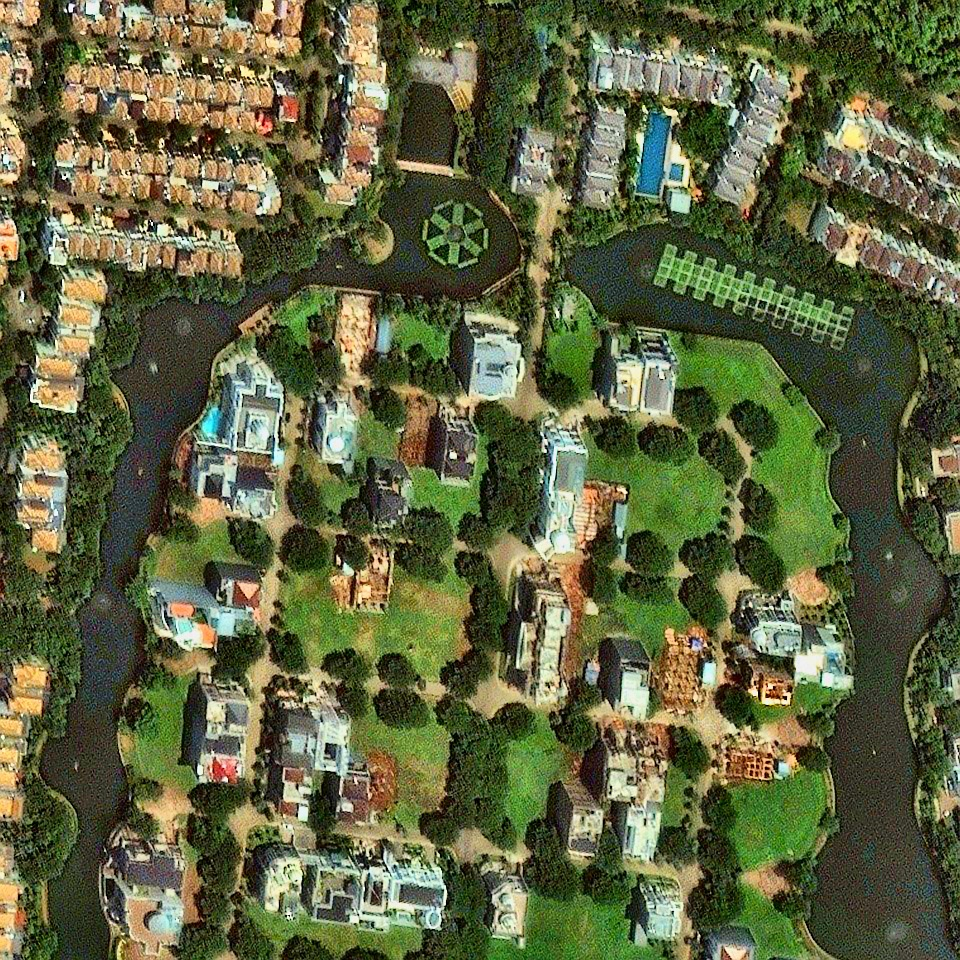
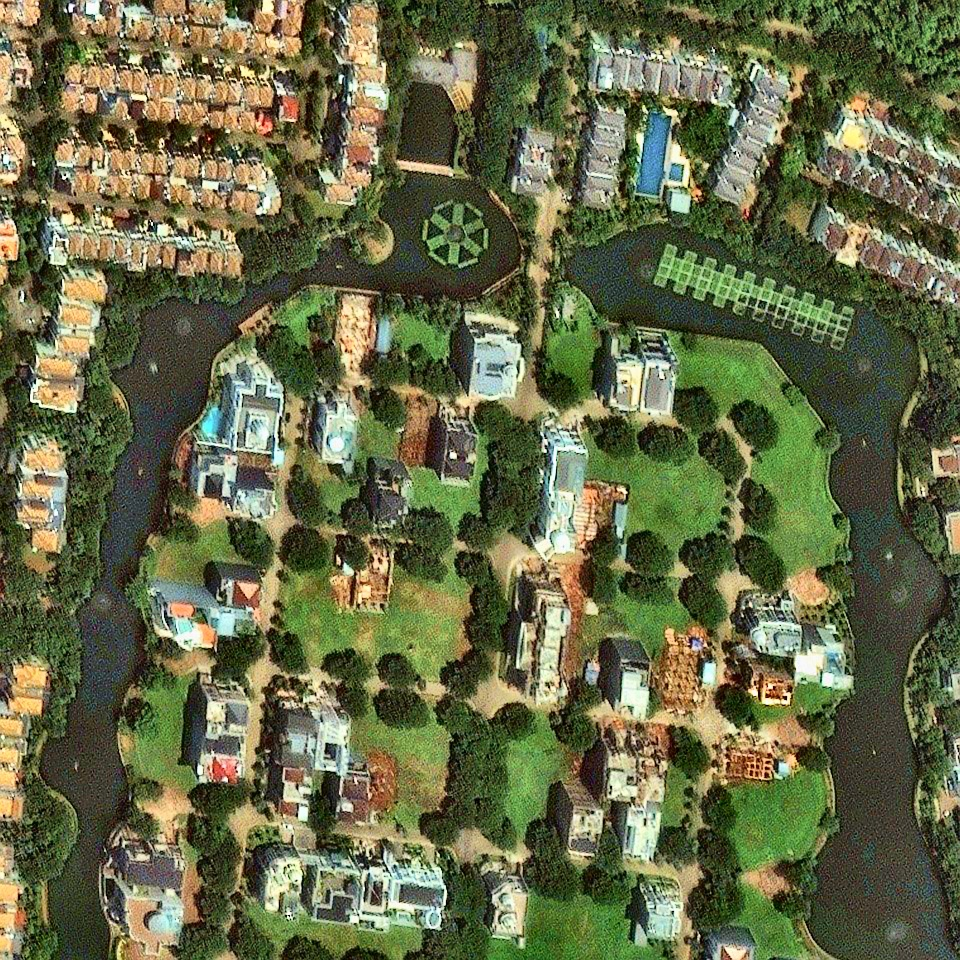
Accuracy: 79.26%

diff --git a/imageEnhance.py b/imageEnhance.py
@@ -24,18 +24,8 @@ def enhanceImage(img):
     #########################################################################
     # ADD YOUR CODE BELOW THIS LINE
 
-    lab = cv2.cvtColor(img, cv2.COLOR_BGR2LAB)
-    # print(lab.shape)
-    lab_planes = cv2.split(lab)
 
-    clahe = cv2.createCLAHE(clipLimit=1.7,tileGridSize=(12,14))
-    lab_planes[0] = clahe.apply(lab_planes[0])
-
-    lab = cv2.merge(lab_planes)
-    newImg = lab
-    bgr = cv2.cvtColor(newImg, cv2.COLOR_LAB2BGR)
-
-    rgb = cv2.cvtColor(bgr, cv2.COLOR_BGR2RGB)
+    rgb = cv2.cvtColor(img, cv2.COLOR_BGR2RGB)
     im_pil = Image.fromarray(rgb)
 
     # contrast = ImageEnhance.Contrast(im_pil)
@@ -60,10 +50,22 @@ def enhanceImage(img):
 
     opencv_image=cv2.cvtColor(np_im, cv2.COLOR_RGB2BGR)
 
+
+    lab = cv2.cvtColor(opencv_image, cv2.COLOR_BGR2LAB)
+    # print(lab.shape)
+    lab_planes = cv2.split(lab)
+
+    clahe = cv2.createCLAHE(clipLimit=1.7,tileGridSize=(12,14))
+    lab_planes[0] = clahe.apply(lab_planes[0])
+
+    lab = cv2.merge(lab_planes)
+    newImg = lab
+    bgr = cv2.cvtColor(newImg, cv2.COLOR_LAB2BGR)
+
     # opencv_image = cv2.cvtColor(final_hsv, cv2.COLOR_HSV2BGR)
 
     # opencv_image = cv2.blur(opencv_image,(5,5))
-    outputImg = opencv_image
+    outputImg = bgr
 
     # END OF YOUR CODE
     #########################################################################
